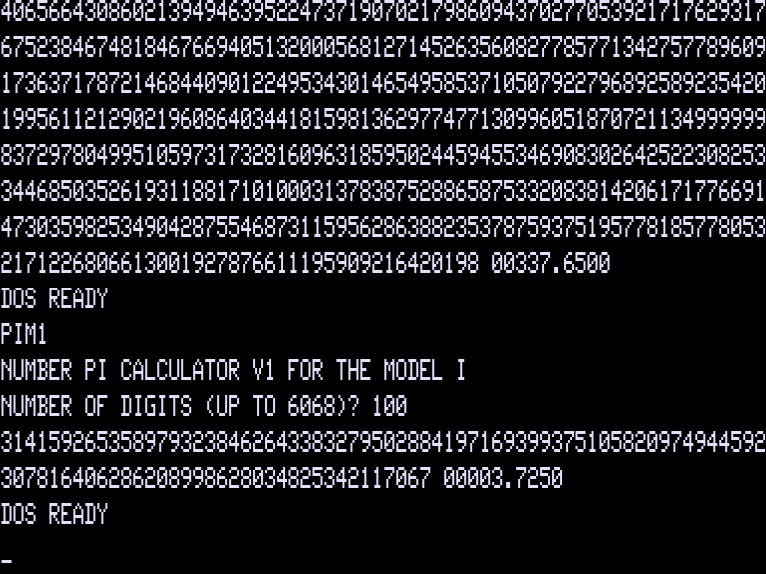
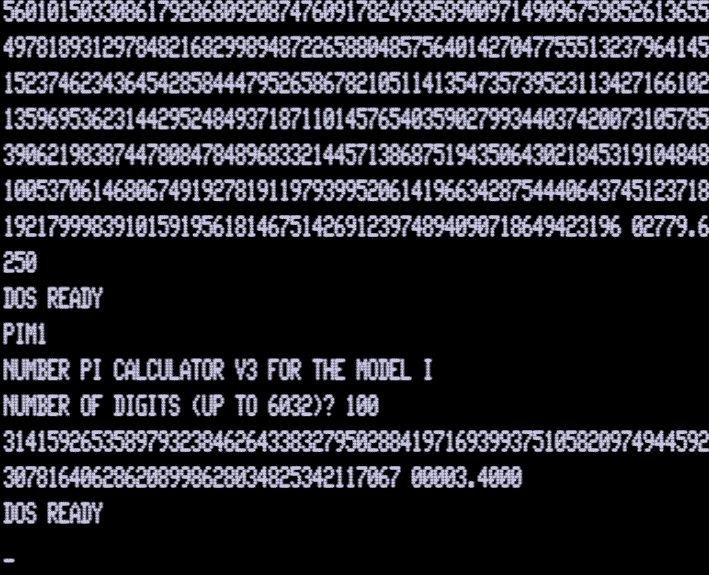
pi-spigot: results for the ABC 802 v3, the Tandy TRS-80 model I/III/4/4p/4d, and the ZX Spectrum

diff --git a/pi-spigot-benchmark/pi-spigot-benchmark.html b/pi-spigot-benchmark/pi-spigot-benchmark.html
@@ -350,14 +350,14 @@ ma.push({computer: "Tandy CoCo 2B/NTSC", OS: "ROM Basic", driver: "coco-1", conn
 ma.push({computer: "Dragon 32", OS: "ROM Basic", driver: "dragon-4", connection: "display", t100: 1.72, t1000: 157.54, t3000: 1413.93, maxd: 3100, source: "real iron (thanks to robcfg)", estimation: false, comment: "XRoar 0.34.1 1.7/157.6/1414", cpu: "6809", freq: 1.78, year: 1982, href: "https://en.wikipedia.org/wiki/Dragon_32/64", cpu100: -1, cpu1000: -1, cpu3000: -1, fixed: 0, screenshot: "rp/dragon32.png"})
 ma.push({computer: "Commodore 128/NTSC", OS: "ROM Basic", driver: "c128-14", connection: "display-40", t100: 1.5, t1000: 155.1, t3000: 1384.6, maxd: 5376, source: "VICE 3.7.1", estimation: false, comment: "", cpu: "8502", freq: 2.05, year: 1985, href: "https://en.wikipedia.org/wiki/Commodore_128", cpu100: -1, cpu1000: -1, cpu3000: -1, fixed: 0, screenshot: "rp/c128-ntsc.png"})
 ma.push({computer: "Commodore 128/PAL", OS: "ROM Basic", driver: "c128-14", connection: "display-40", t100: 1.6, t1000: 161.1, t3000: 1439.1, maxd: 5376, source: "VICE 3.7.1", estimation: false, comment: "", cpu: "8502", freq: 1.97, year: 1985, href: "https://en.wikipedia.org/wiki/Commodore_128", cpu100: 1.6, cpu1000: 160.6, cpu3000: 1436.8, fixed: 0, screenshot: "rp/c128-pal.png"})  //5376 - 4615.5s
-ma.push({computer: "ZX Spectrum 48k", OS: "ROM Basic", driver: "zx-2", connection: "display", t100: 1.88, t1000: 168.41, t3000: 1505.07, maxd: 4400, source: "ep128emu 2.0.9.1", estimation: false, comment: "", cpu: "Z80", freq: 3.5, year: 1982, href: "https://en.wikipedia.org/wiki/ZX_Spectrum", cpu100: -1, cpu1000: -1, cpu3000: -1, fixed: 0, screenshot: "rp/zx.png"})
+ma.push({computer: "ZX Spectrum 48k", OS: "ROM Basic", driver: "zx-4", connection: "display", t100: 1.72, t1000: 153.93, t3000: 1374.5, maxd: 4400, source: "ep128emu 2.0.11", estimation: false, comment: "", cpu: "Z80", freq: 3.5, year: 1982, href: "https://en.wikipedia.org/wiki/ZX_Spectrum", cpu100: -1, cpu1000: -1, cpu3000: -1, fixed: 0, screenshot: "rp/zx.png"})
 ma.push({computer: "Amstrad CPC6128", OS: "ROM Basic", driver: "cpc-10", connection: "display", t100: 1.87, t1000: 161.07, t3000: 1435.38, maxd: 5500, source: "ep128emu 2.0.11", estimation: false, comment: "", cpu: "Z80", freq: 4, year: 1985, href: "https://en.wikipedia.org/wiki/Amstrad_CPC", cpu100: -1, cpu1000: -1, cpu3000: -1, fixed: 0, screenshot: "rp/cpc6128-basic.png"})
 ma.push({computer: "Tiki-100", OS: "KP/M", driver: "cpm22bios-17-tiki100", connection: "display", t100: 1.86, t1000: 160.91, t3000: 1435.42, maxd: 7604, source: "real iron (thanks to per) + tikiemul 1.1.1", estimation: true, comment: "", cpu: "Z80", freq: 4, year: 1984, href: "https://en.wikipedia.org/wiki/Tiki_100", cpu100: -1, cpu1000: -1, cpu3000: -1, fixed: 0, screenshot: ""}) //rp/tiki-100.png
 ma.push({computer: "Amstrad CPC6128", OS: "CP/M 2.2", driver: "cpm22bios-16-cpc6128", connection: "display", t100: 1.98, t1000: 169.01, t3000: 1504.83, maxd: 5960, source: "ep128emu 2.0.11", estimation: false, comment: "", cpu: "Z80", freq: 4, year: 1985, href: "https://en.wikipedia.org/wiki/Amstrad_CPC", cpu100: -1, cpu1000: -1, cpu3000: -1, fixed: 0, screenshot: "rp/cpc6128-cpm22.png"})
 ma.push({computer: "Amstrad CPC6128", OS: "CP/M 3", driver: "cpc-cpm3-13", connection: "display", t100: 2.18, t1000: 176.84, t3000: 1566.27, maxd: 8628, source: "ep128emu 2.0.11", estimation: false, comment: "", cpu: "Z80", freq: 4, year: 1985, href: "https://en.wikipedia.org/wiki/Amstrad_CPC", cpu100: 1.87, cpu1000: 172.66, cpu3000: 1555.62, fixed: 0, screenshot: "rp/cpc6128-cpm3.png"})
 ma.push({computer: "Amstrad CPC6128", OS: "CP/M 3", driver: "cpc-cpm3-13", connection: "disk", t100: 3.61, t1000: 176.47, t3000: 1564.80, maxd: 8336, source: "ep128emu 2.0.11", estimation: false, comment: "", cpu: "Z80", freq: 4, year: 1985, href: "https://en.wikipedia.org/wiki/Amstrad_CPC", cpu100: -1, cpu1000: -1, cpu3000: -1, fixed: 0, screenshot: ""})
 ma.push({computer: "Amstrad PCW8256", OS: "CP/M 3", driver: "cpm22bdos-16-pcw8256", connection: "display", t100: 1.9, t1000: 175.47, t3000: 1571.65, maxd: 8628, source: "CP/M Box 1.9.2", estimation: false, comment: "", cpu: "Z80", freq: 4, year: 1985, href: "https://en.wikipedia.org/wiki/Amstrad_PCW", cpu100: -1, cpu1000: -1, cpu3000: -1, fixed: 0, screenshot: "rp/pcw8256.png"})
-ma.push({computer: "ABC 802", OS: "ROM Basic", driver: "abc800-1", connection: "display", t100: 2.12, t1000: 193.87, t3000: 1737.66, maxd: 3072, source: "MAME/MESS 0.229", estimation: false, comment: "", cpu: "Z80", freq: 3, year: 1981, href: "https://en.wikipedia.org/wiki/ABC_800", cpu100: -1, cpu1000: -1, cpu3000: -1, fixed: 0, screenshot: "rp/abc802.png"})
+ma.push({computer: "ABC 802", OS: "ROM Basic", driver: "abc800-3", connection: "display", t100: 1.91, t1000: 176.13, t3000: 1578.73, maxd: 3084, source: "MAME/MESS 0.239", estimation: false, comment: "", cpu: "Z80", freq: 3, year: 1981, href: "https://en.wikipedia.org/wiki/ABC_800", cpu100: -1, cpu1000: -1, cpu3000: -1, fixed: 0, screenshot: "rp/abc802.png"})
 ma.push({computer: "Atari 800XL/NTSC", OS: "ROM Basic", driver: "atari800xl-6", connection: "display", t100: 1.9, t1000: 185.5, t3000: 1655.99, maxd: 4536, source: "atari800 4.2.0", estimation: false, comment: "", cpu: "6502", freq: 1.79, year: 1983, href: "https://en.wikipedia.org/wiki/Atari_8-bit_family", cpu100: -1, cpu1000: -1, cpu3000: -1, fixed: 0, screenshot: "rp/atari800xl-ntsc.png"})
 ma.push({computer: "Atari 800XL/PAL", OS: "ROM Basic", driver: "atari800xl-6", connection: "display", t100: 1.93, t1000: 187.1, t3000: 1670.48, maxd: 4536, source: "atari800 4.2.0", estimation: false, comment: "", cpu: "6502", freq: 1.77, year: 1983, href: "https://en.wikipedia.org/wiki/Atari_8-bit_family", cpu100: -1, cpu1000: -1, cpu3000: -1, fixed: 0, screenshot: "rp/atari800xl-pal.png"})
 ma.push({computer: "Sanyo MPC-25FD", OS: "ROM Basic", driver: "msx-9", connection: "display", t100: 2.03, t1000: 186.27, t3000: 1668.82, maxd: 3000, source: "openmsx 0.18.0", estimation: false, comment: "MSX 1, 2, 2+", cpu: "Z80", freq: 3.58, year: 1985, href: "https://en.wikipedia.org/wiki/MSX", cpu100: -1, cpu1000: -1, cpu3000: -1, fixed: 0, screenshot: "rp/msx-basic.png"})
@@ -380,11 +380,11 @@ ma.push({computer: "Apple IIc", OS: "Applesoft Basic", driver: "apple2c-65c02-2"
 ma.push({computer: "Apple IIe", OS: "Applesoft Basic", driver: "apple2e-2", connection: "display", t100: 3.17, t1000: 311.58, t3000: 2784.5, maxd: 4748, source: "MAME 0.229", estimation: false, comment: "", cpu: "6502", freq: 1.02, year: 1983, href: "https://en.wikipedia.org/wiki/Apple_IIe", cpu100: -1, cpu1000: -1, cpu3000: -1, fixed: 0, screenshot: ""})
 ma.push({computer: "Kop&#x432;e&#x442;", OS: "CP/M 2.2", driver: "cpm22bios-8080-7-korvet", connection: "display", t100: 2.68, t1000: 230.54, t3000: 2045.66, maxd: 7496, source: "Emu80 4.0.457", estimation: false, comment: "emu difference is below below 0.55% for Sancho45's computer", cpu: "8080", freq: 2.5, year: 1987, href: "https://en.wikipedia.org/wiki/Corvette_(computer)", cpu100: 2.64, cpu1000: 229.92, cpu3000: 2043.5, fixed: 0, screenshot: "rp/korvet.png"})
 ma.push({computer: "Kop&#x432;e&#x442;", OS: "CP/M 2.2", driver: "cpm22bdos-8080-6-korvet", connection: "display", t100: 2.72, t1000: 230.82, t3000: 2046.52, maxd: 6984, source: "Emu80 4.0.457", estimation: true, comment: "", cpu: "8080", freq: 2.5, year: 1987, href: "https://en.wikipedia.org/wiki/Corvette_(computer)", cpu100: -1, cpu1000: -1, cpu3000: -1, fixed: 0, screenshot: "rp/korvet-bdos.png"})
-ma.push({computer: "Tandy TRS-80 Model I", OS: "TRSDOS 2.3", driver: "trsdos-m1-1", connection: "display", t100: 3.7, t1000: 337.65, t3000: 3024.08, maxd: 6068, source: "trs80gp v2.4.3", estimation: false, comment: "", cpu: "Z80", freq: 1.77, year: 1977, href: "https://en.wikipedia.org/wiki/TRS-80", cpu100: -1, cpu1000: -1, cpu3000: -1, fixed: 0, screenshot: "rp/trs-80-m1.png"})
+ma.push({computer: "Tandy TRS-80 Model I", OS: "TRSDOS 2.3", driver: "trsdos-m1-3", connection: "display", t100: 3.38, t1000: 310.03, t3000: 2779.63, maxd: 6032, source: "trs80gp v2.5.3", estimation: false, comment: "", cpu: "Z80", freq: 1.77, year: 1977, href: "https://en.wikipedia.org/wiki/TRS-80", cpu100: -1, cpu1000: -1, cpu3000: -1, fixed: 0, screenshot: "rp/trs-80-m1.png"})
 ma.push({computer: "Tandy TRS-80 Model II", OS: "Pickles &amp; Trout CP/M", driver: "cpm22pt-bios-17", connection: "display", t100: 1.47, t1000: 134.8, t3000: 1207.22, maxd: 8192, source: "trs80gp v2.5.3", estimation: false, comment: "", cpu: "Z80", freq: 4.00, year: 1979, href: "https://en.wikipedia.org/wiki/TRS-80_Model_II", cpu100: -1, cpu1000: -1, cpu3000: -1, fixed: 0, screenshot: "rp/trs-80-m2.png"})
-ma.push({computer: "Tandy TRS-80 Model III", OS: "TRSDOS 1.3", driver: "trsdos-m3-1", connection: "display", t100: 3.17, t1000: 288.2, t3000: 2581.1, maxd: 6068, source: "trs80gp v2.4.3", estimation: false, comment: "", cpu: "Z80", freq: 2.03, year: 1980, href: "https://en.wikipedia.org/wiki/TRS-80", cpu100: -1, cpu1000: -1, cpu3000: -1, fixed: 0, screenshot: "rp/trs-80-m3.png"})
-//ma.push({computer: "Tandy TRS-80 Model 4", OS: "TRSDOS 6.2", driver: "trsdos-m4-1", connection: "display", t100: 2.17, t1000: 193.97, t3000: 1735.68, maxd: 7312, source: "trs80gp v2.4.3", estimation: false, comment: "", cpu: "Z80", freq: 4.06, year: 1983, href: "https://en.wikipedia.org/wiki/TRS-80_Model_4", cpu100: -1, cpu1000: -1, cpu3000: -1, fixed: 0, screenshot: "rp/trs-80-m4p.png"})
-ma.push({computer: "Tandy TRS-80 Model 4P", OS: "TRSDOS 6.2", driver: "trsdos-m4-1", connection: "display", t100: 1.67, t1000: 149.18, t3000: 1334.65, maxd: 7312, source: "trs80gp v2.4.3", estimation: false, comment: "", cpu: "Z80", freq: 4.06, year: 1983, href: "https://en.wikipedia.org/wiki/TRS-80_Model_4", cpu100: -1, cpu1000: -1, cpu3000: -1, fixed: 0, screenshot: "rp/trs-80-m4p.png"})
+ma.push({computer: "Tandy TRS-80 Model III", OS: "TRSDOS 1.3", driver: "trsdos-m3-3", connection: "display", t100: 2.9, t1000: 264.87, t3000: 2371.9, maxd: 6032, source: "trs80gp v2.5.3", estimation: false, comment: "", cpu: "Z80", freq: 2.03, year: 1980, href: "https://en.wikipedia.org/wiki/TRS-80", cpu100: -1, cpu1000: -1, cpu3000: -1, fixed: 0, screenshot: "rp/trs-80-m3.png"})
+ma.push({computer: "Tandy TRS-80 Model 4", OS: "TRSDOS 6.2", driver: "trsdos-m4-3", connection: "display", t100: 1.97, t1000: 177.97, t3000: 1592.93, maxd: 7276, source: "trs80gp v2.5.3", estimation: false, comment: "", cpu: "Z80", freq: 4.06, year: 1983, href: "https://en.wikipedia.org/wiki/TRS-80_Model_4", cpu100: -1, cpu1000: -1, cpu3000: -1, fixed: 0, screenshot: "rp/trs-80-m4.png"})
+ma.push({computer: "Tandy TRS-80 Model 4P or D", OS: "TRSDOS 6.2", driver: "trsdos-m4-3", connection: "display", t100: 1.52, t1000: 137.05, t3000: 1226.55, maxd: 7276, source: "trs80gp v2.5.3", estimation: false, comment: "", cpu: "Z80", freq: 4.06, year: 1983, href: "https://en.wikipedia.org/wiki/TRS-80_Model_4", cpu100: -1, cpu1000: -1, cpu3000: -1, fixed: 0, screenshot: "rp/trs-80-m4p.png"})
 ma.push({computer: "Commodore 128/NTSC", OS: "CP/M 3", driver: "cpm22bdos-16-c128", connection: "display-40", t100: 3.2, t1000: 263.3, t3000: 2338.6, maxd: 8156, source: "VICE 3.8", estimation: false, comment: "", cpu: "Z80", freq: 2.05, year: 1985, href: "https://en.wikipedia.org/wiki/Commodore_128", cpu100: 2.8, cpu1000: 259.2, cpu3000: 2325.4, fixed: 0, screenshot: "rp/c128-cpm-40col-ntsc.png"})
 ma.push({computer: "Commodore 128/NTSC", OS: "CP/M 3", driver: "cpm22bdos-16-c128", connection: "display-80", t100: 3.1, t1000: 262.2, t3000: 2334.7, maxd: 8156, source: "VICE 3.8", estimation: false, comment: "", cpu: "Z80", freq: 2.05, year: 1985, href: "https://en.wikipedia.org/wiki/Commodore_128", cpu100: 2.8, cpu1000: 259.1, cpu3000: 2325.4, fixed: 0, screenshot: "rp/c128-cpm-80col-ntsc.png"})
 ma.push({computer: "Commodore 128/PAL", OS: "CP/M 3", driver: "cpm22bdos-16-c128", connection: "display-40", t100: 3.2, t1000: 273.3, t3000: 2427.6, maxd: 8156, source: "VICE 3.7.1", estimation: false, comment: "", cpu: "Z80", freq: 1.97, year: 1985, href: "https://en.wikipedia.org/wiki/Commodore_128", cpu100: 2.8, cpu1000: 269.0, cpu3000: 2413.9, fixed: 0, screenshot: "rp/c128-cpm-40col.png"})  //8156 - 18284.0
@@ -532,16 +532,16 @@ ma.sort(function(a, b){ return a.t3000 - b.t3000 })
 <tr><td>apple2gs-1<td>65816<td align=right>250+768=1018<sup>*5</sup><td align=right>1906+416=2322<sup>*1</sup>
 <tr><td>bbc-z80-6<td>Z80<td align=right>1078+768=1846<sup>*5</sup><td align=right>2048+289=2337<sup>*1</sup>
 <tr><td>msx-9<td>Z80<td align=right>725+768=1493<sup>*5</sup><td align=right>1799+452=2251<sup>*1</sup>
-<tr><td>cpm22bios-16<td>Z80<td align=right>1078+768=1846<sup>*5</sup><td align=right>2534&mdash;2534
-<tr><td>trsdos-m1-1<td>Z80<td align=right>748+768=1516<sup>*5</sup><td align=right>2284
-<tr><td>trsdos-m3-1<td>Z80<td align=right>748+768=1516<sup>*5</sup><td align=right>2286
+<tr><td>cpm22bios-17<td>Z80<td align=right>1078+768=1846<sup>*5</sup><td align=right>2534&mdash;2570
+<tr><td>trsdos-m1-3<td>Z80<td align=right>1078+768=1848<sup>*5</sup><td align=right>2544
+<tr><td>trsdos-m3-3<td>Z80<td align=right>1078+768=1848<sup>*5</sup><td align=right>2546
 <tr><td>cpc-cpm3-13<td>Z80<td align=right>1078+768=1846<sup>*5</sup><td align=right>2544
-<tr><td>trsdos-m4-1<td>Z80<td align=right>748+768=1516<sup>*5</sup><td align=right>2299
+<tr><td>trsdos-m4-3<td>Z80<td align=right>1078+768=1848<sup>*5</sup><td align=right>2559
 <tr><td>cpc-10<td>Z80<td align=right>1078+768=1848<sup>*5</sup><td align=right>2060+575=2635<sup>*1</sup>
 <tr><td>c128-z80-2<td>Z80<td align=right>1078+768=1848<sup>*5</sup><td align=right>[2304+511+2]=2817<sup>*7</sup>
-<tr><td>cpm22bdos-16<td>Z80<td align=right>748+768=1516<sup>*5</sup><td align=right>2266&mdash;2548
-<tr><td>zx-1<td>Z80<td align=right>748+768=1516<sup>*5</sup><td align=right>4666<sup>*3</sup>
-<tr><td>abc800-1<td>Z80<td align=right>748+768=1516<sup>*5</sup><td align=right>1804+579=4684<sup>*8</sup>
+<tr><td>cpm22bdos-16<td>Z80<td align=right>1078+768=1848<sup>*5</sup><td align=right>2541&mdash;2807
+<tr><td>zx-4<td>Z80<td align=right>725+768=1493<sup>*5</sup><td align=right>4666<sup>*3</sup>
+<tr><td>abc800-3<td>Z80<td align=right>725+768=1493<sup>*5</sup><td align=right>4431<sup>*8</sup>
 <tr><td>tandy100-1<td>8085<td align=right>992+768=1760<sup>*5</sup><td align=right>2054+378=2432<sup>*1</sup>
 <tr><td>cpm22bios-8080-7<td>8080<td align=right>1832+768=2260<sup>*5</sup><td align=right>3320&ndash;3325
 <tr><td>vic20-3<td>6502<td align=right>2353+768=3121<sup>*5*6</sup><td align=right>[3497+264+2]=3773<sup>*7</sup>
@@ -568,7 +568,7 @@ Square brackets combine part sizes that are parts of one file.<br>
 <sup>*8</sup> it is a size of Basic text that contains embedded ML-code.<br>
 </table>
 <br>
-<p>Thanks a lot to the people who helped: bqt, ivagor, perestoronin, BigEd, tricky, MMS, Thorham, meynaf, saimo, Don_Adan, mizapf, modrobert, a/b, ...
+<p>Thanks a lot to the people who helped: bqt, ivagor, perestoronin, blackmirror, BigEd, tricky, MMS, Thorham, meynaf, saimo, Don_Adan, mizapf, modrobert, a/b, ...
 <hr>
 <p>Download the sources and executables (<a href=https://drive.google.com/file/d/10lSF_zo0ypiQSS5whiBxNRyAU6LKv2uH/view?usp=sharing>v75 [183 KB]</a>) pack.
 <p><a href=https://github.com/litwr2/rosetta-pi-spigot>Sources</a> <a href=pipacks.html>Archive</a> <script>document.write(mirror())</script>

diff --git a/8080-8085-z80-8088-6502/db.js b/8080-8085-z80-8088-6502/db.js
@@ -756,7 +756,7 @@ ma.push({m8080: "", o8080: "", mz80: "OTDR", oz80: "", oc: "ED BB", f8080: "", f
 
 ma.push({m8080: "DSUB", o8080: "", mz80: "OR A~SBC HL,BC", oz80: "3", oc: "08", f8080: "", fz80: "", t8080: "", t8085: 10, tz80: 19, sz: "1", x86: "SUB BX,CX", f8088: "", t8088: 3, x86sz: 2, m6502: "", f6502: "", t6502: "", sz6502: "", comment: "SUB HL,BC", style: 1})
 ma.push({m8080: "ARHL", o8080: "", mz80: "SRA H~RR L", oz80: "4", oc: "10", f8080: "", fz80: "", t8080: "", t8085: 7, tz80: 16, sz: "1", x86: "SAR BX,1", f8088: "", t8088: 2, x86sz: 2, m6502: "", f6502: "", t6502: "", sz6502: "", comment: "SRA HL", style: 1})
-ma.push({m8080: "RDEL", o8080: "", mz80: "RL E~RL D", oz80: "4", oc: "18", f8080: "", fz80: "", t8080: "", t8085: 10, tz80: 16, sz: "1", x86: "ROL DX,1", f8088: "", t8088: 2, x86sz: 2, m6502: "", f6502: "", t6502: "", sz6502: "", comment: "RL DE", style: 1})
+ma.push({m8080: "RDEL", o8080: "", mz80: "RL E~RL D", oz80: "4", oc: "18", f8080: "", fz80: "", t8080: "", t8085: 10, tz80: 16, sz: "1", x86: "ROL DX,1", f8088: "", t8088: 2, x86sz: 2, m6502: "", f6502: "", t6502: "", sz6502: "", comment: "RL DE or ADC DE,DE", style: 1})
 ma.push({m8080: "LDHI", o8080: "byte", mz80: "PUSH HL~LD DE,byte~ADD HL,DE~EX DE,HL~POP HL", oz80: "7", oc: "28", f8080: "", fz80: "", t8080: "", t8085: 10, tz80: "46", sz: "2", x86: "MOV DX,BX~ADD DX,byte", f8088: "", t8088: 6, x86sz: "3-4", m6502: "", f6502: "", t6502: "", sz6502: "", comment: "LD DE,HL+byte", style: 1})
 ma.push({m8080: "LDSI", o8080: "byte", mz80: "PUSH HL~LD HL,byte+2~ADD HL,SP~EX DE,HL~POP HL", oz80: "7", oc: "38", f8080: "", fz80: "", t8080: "", t8085: 10, tz80: "46", sz: 2, x86: "MOV DX,SP~ADD DX,byte", f8088: "", t8088: 6, x86sz: "3-4", m6502: "", f6502: "", t6502: "", sz6502: "", comment: "LD DE,SP+byte", style: 1})
 ma.push({m8080: "LHLX", o8080: "", mz80: "PUSH AF~LD A,(DE)~LD L,A~INC DE~LD A,(DE)~LD H,A~DEC DE~POP AF", oz80: "8", oc: "ED", f8080: "", fz80: "55", t8080: "", t8085: 10, tz80: "36", sz: 1, x86: "MOV BX,DX~MOV BX,[BX]", f8088: "", t8088: 19, x86sz: 4, m6502: "", f6502: "", t6502: "", sz6502: "", comment: "LD HL,(DE)", style: 1})
